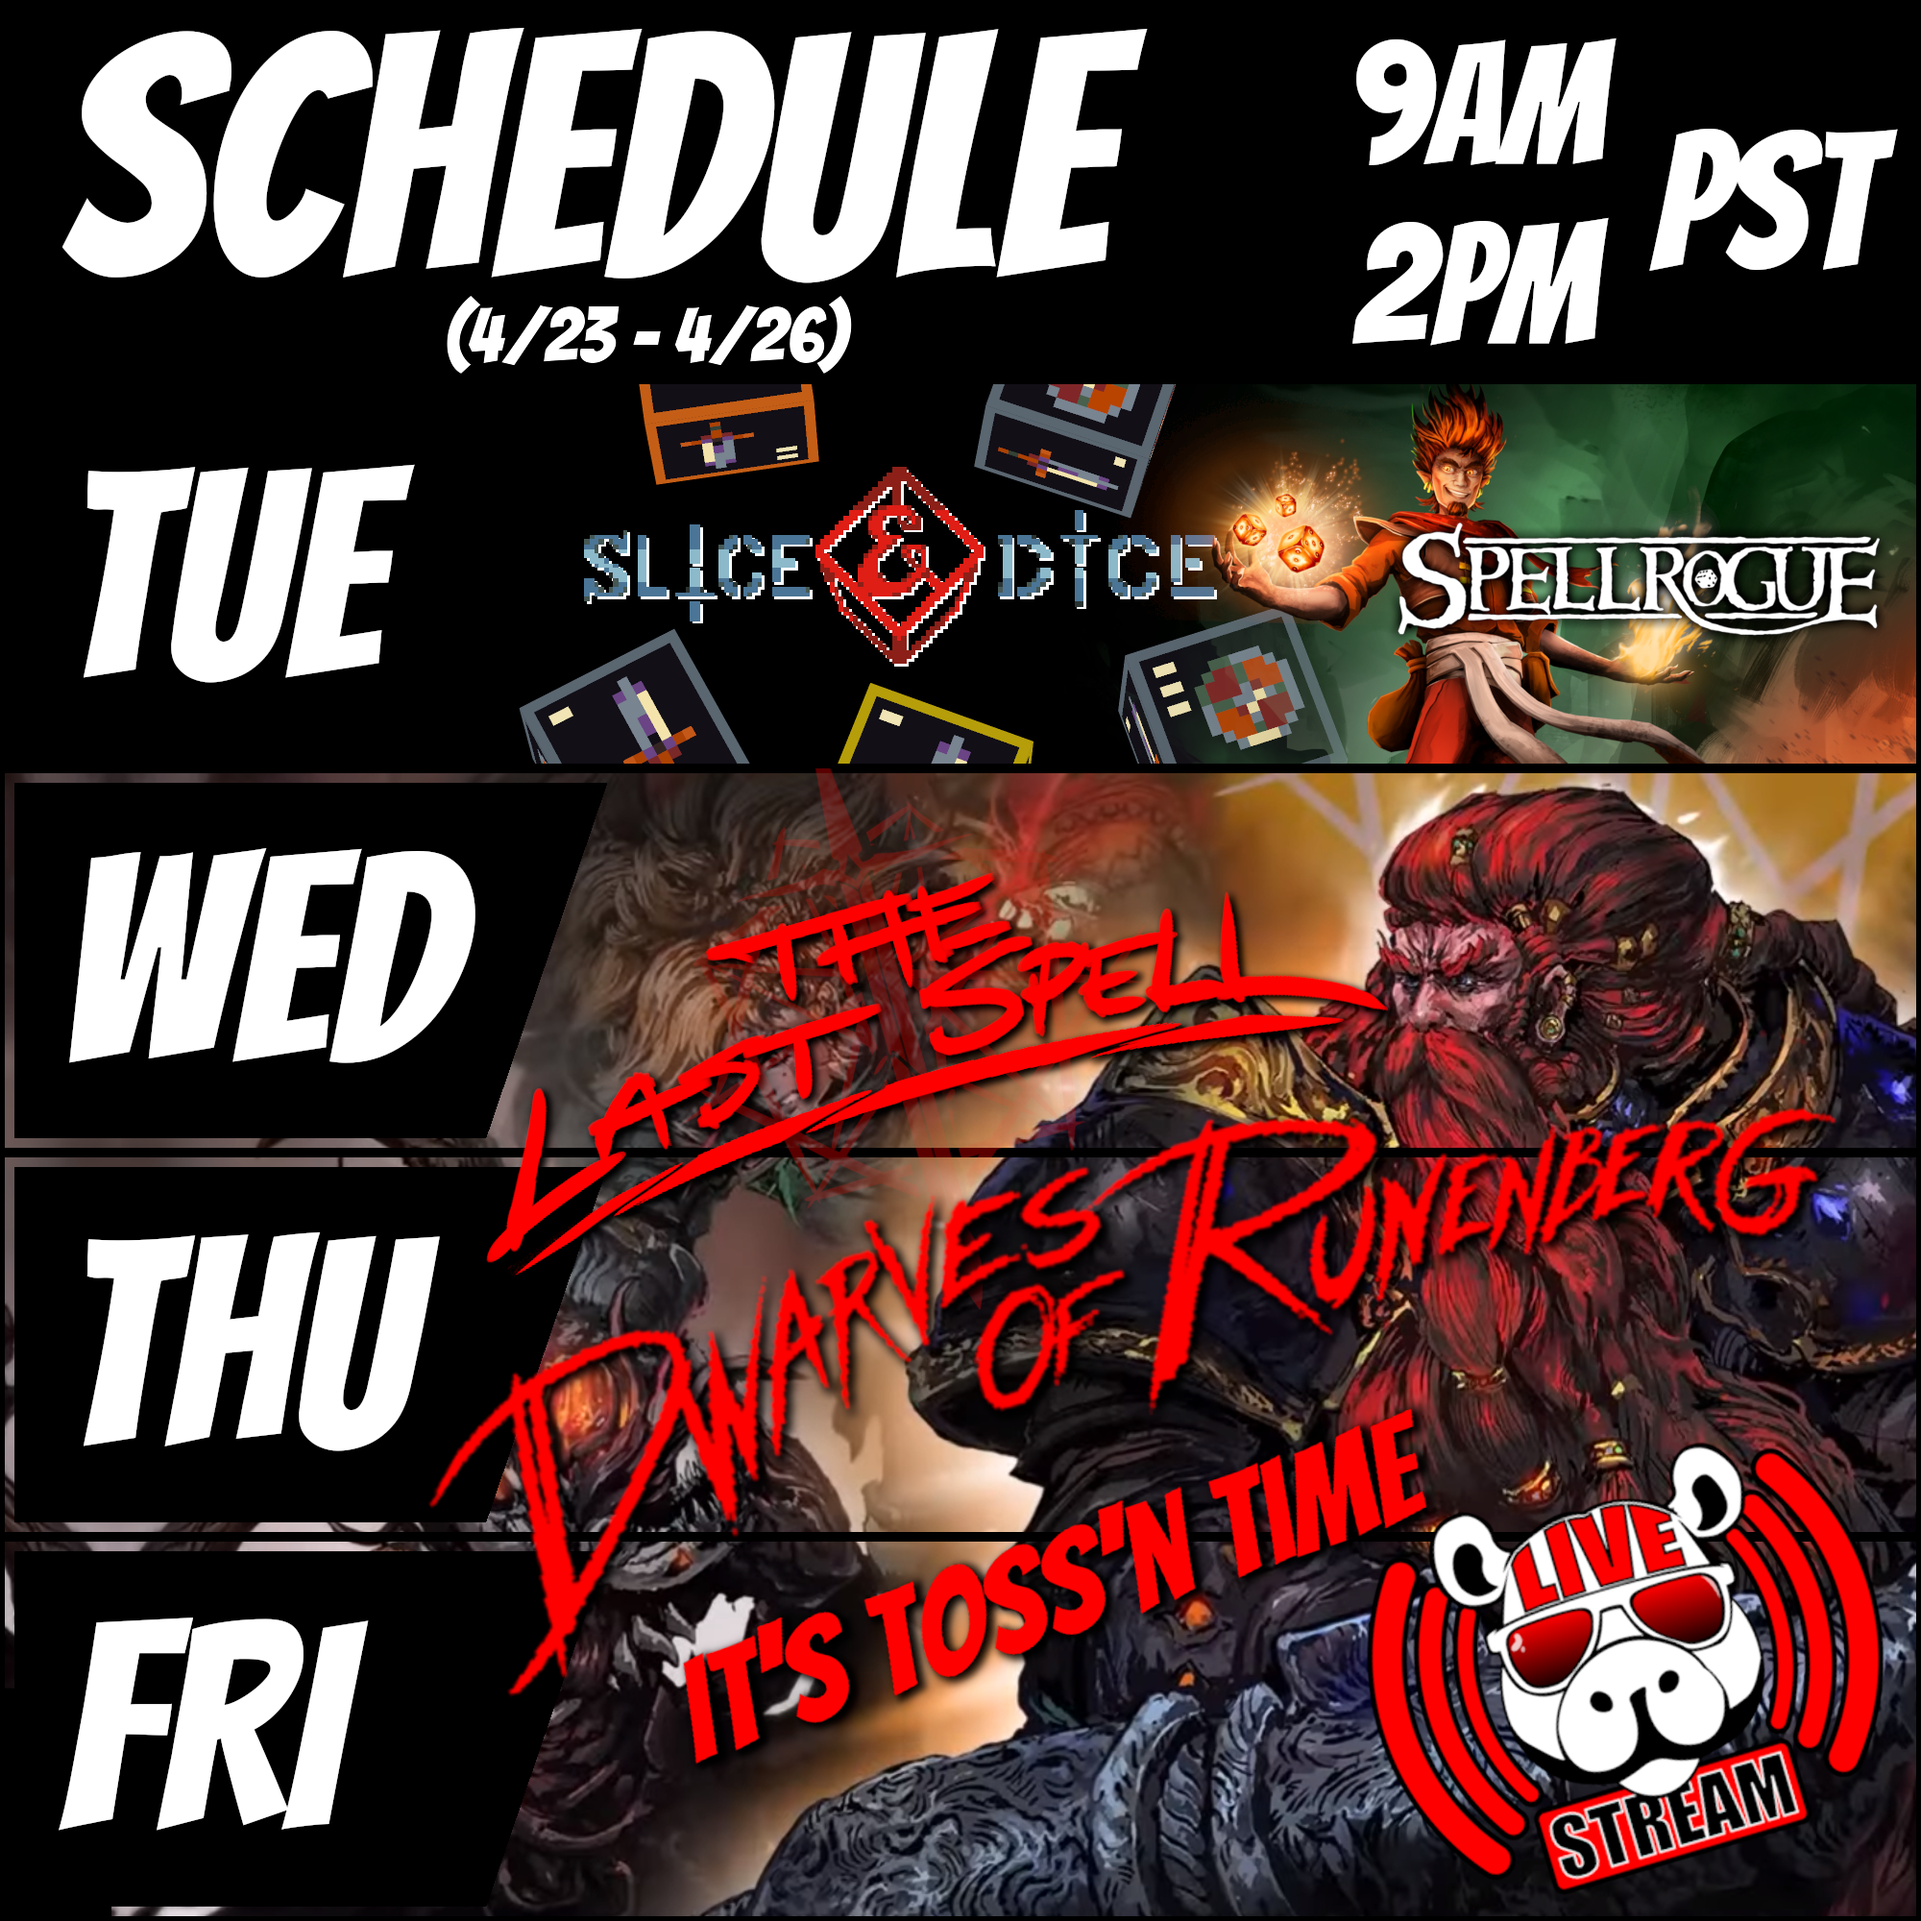
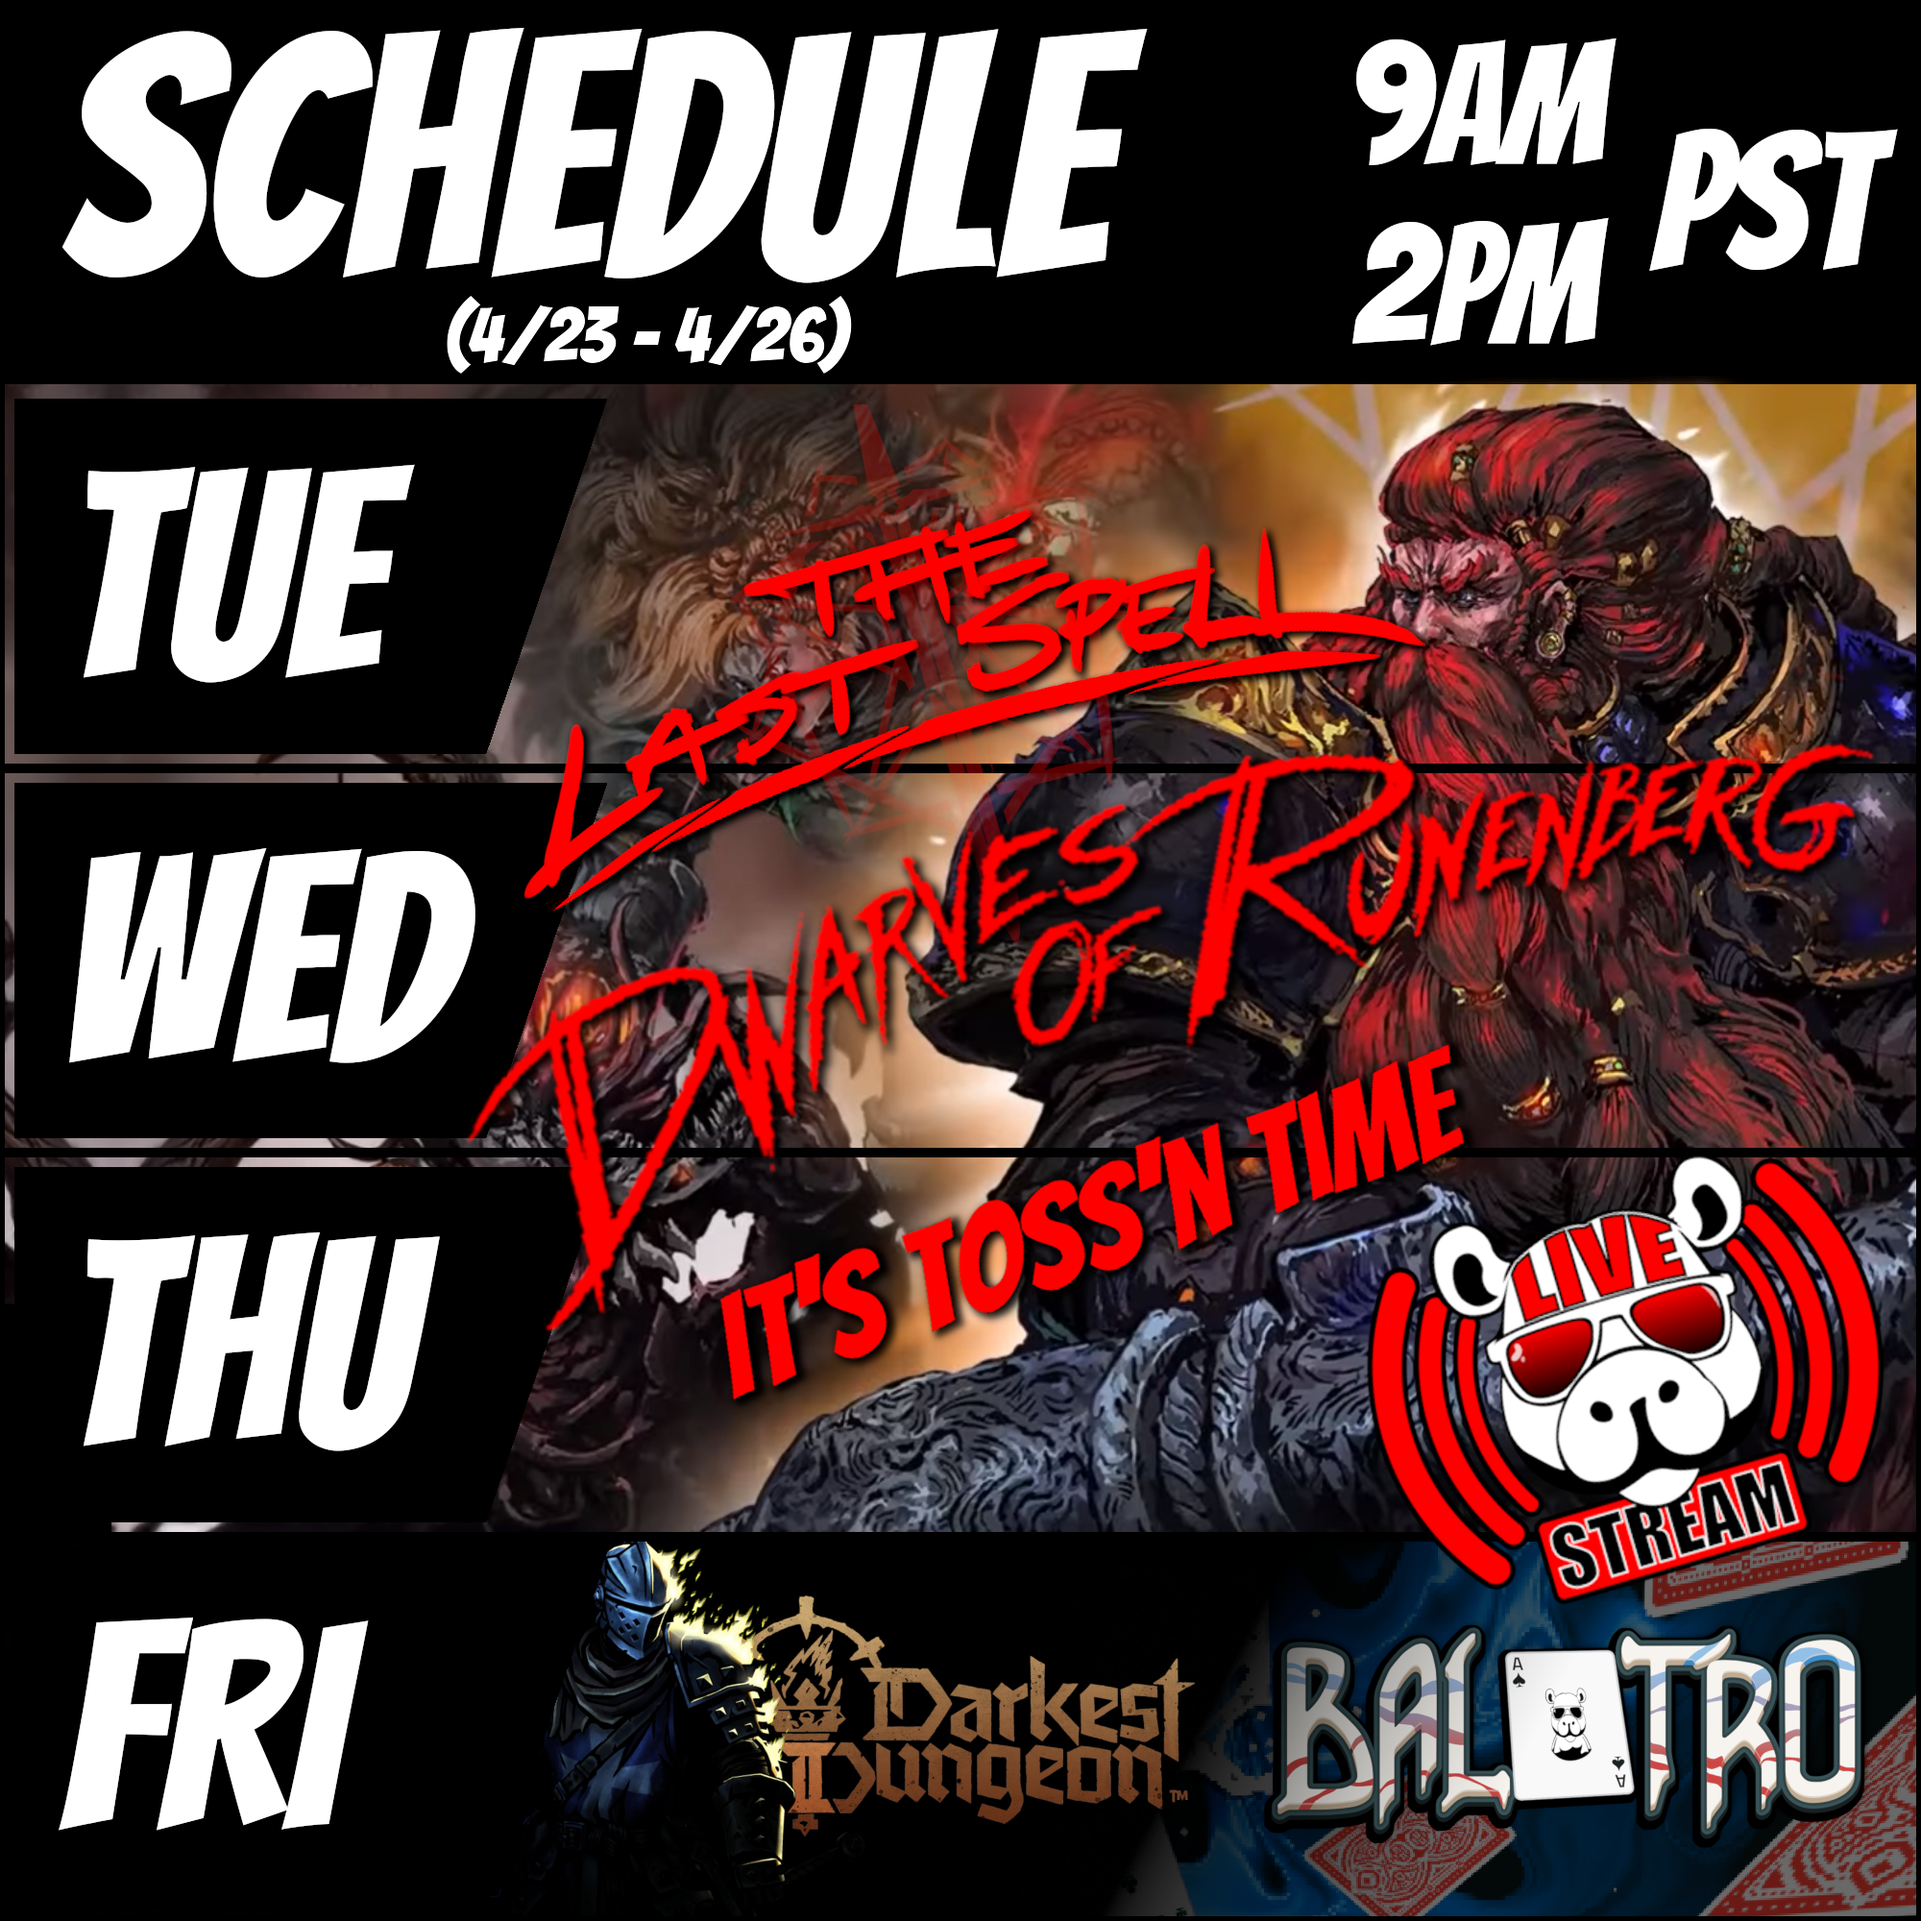
weekly + update to games & schedule

diff --git a/variety_games_section.html b/variety_games_section.html
@@ -70,6 +70,22 @@
 </div>
 
 <div class="gamecard_container">
+  <a class="gamecard_logo" href="https://tann.itch.io/slice-dice">
+    <img src="https://storage.googleapis.com/minmax-dc0bc.appspot.com/wiki%2Fslice-and-dice%2FNAGZ_fg-png"></a>
+  <div class="gamecard_text">
+    <p>Slice & Dice is an exceptional dice based roguelite.  Representing heroes with six sided dice and using
+      various equipment to manipulate their faces, it provides a simple yet elegant approach to dungeon delving.
+      With more game modes than sense it's game that promises a lot of entertainment for a low price.
+    </p>
+  </div>
+  <iframe class="gamecard_playlist"
+    src="https://www.youtube.com/embed/videoseries?si=fvcehGw95By8j2BH&amp;list=PLohcFMuK18wnb17FCYIP3xIyXRbbU5_Em"
+    title="YouTube video player" frameborder="0"
+    allow="accelerometer; autoplay; clipboard-write; encrypted-media; gyroscope; picture-in-picture; web-share"
+    allowfullscreen></iframe>
+</div>
+
+<div class="gamecard_container">
   <a class="gamecard_logo" href="https://store.steampowered.com/app/1990110/SpellRogue/">
     <img src="https://spellrogue.wiki.gg/images/e/e6/Site-logo.png"></a>
   <div class="gamecard_text">

diff --git a/games_section.html b/games_section.html
@@ -100,18 +100,3 @@
     allow="accelerometer; autoplay; clipboard-write; encrypted-media; gyroscope; picture-in-picture; web-share"
     allowfullscreen></iframe>
 </div>
-
-<div class="gamecard_container">
-  <a class="gamecard_logo" href="https://store.steampowered.com/app/1086940/Baldurs_Gate_3/"><img
-      src="https://baldursgate3.game/png/logo-bg3.png"></a>
-  <div class="gamecard_text">
-    <p>Balrdur’s Gate 3 is just one of those games… as a player of the original Baldur’s Gate and its sequel this game
-      is everything I dreamt of and more. Larian Studios have brought D&D to life if a way I didn’t know was possible
-      and I’m here for it. Viewership is terrible, but it’s a game I will finish simply because it brings me joy.</p>
-  </div>
-  <iframe class="gamecard_playlist"
-    src="https://www.youtube.com/embed/videoseries?si=wGTeZwuYi8ec3T-3&amp;list=PLohcFMuK18wmJUhAXxVjuLGB6M73Ai49W"
-    title="YouTube video player" frameborder="0"
-    allow="accelerometer; autoplay; clipboard-write; encrypted-media; gyroscope; picture-in-picture; web-share"
-    allowfullscreen></iframe>
-</div>
